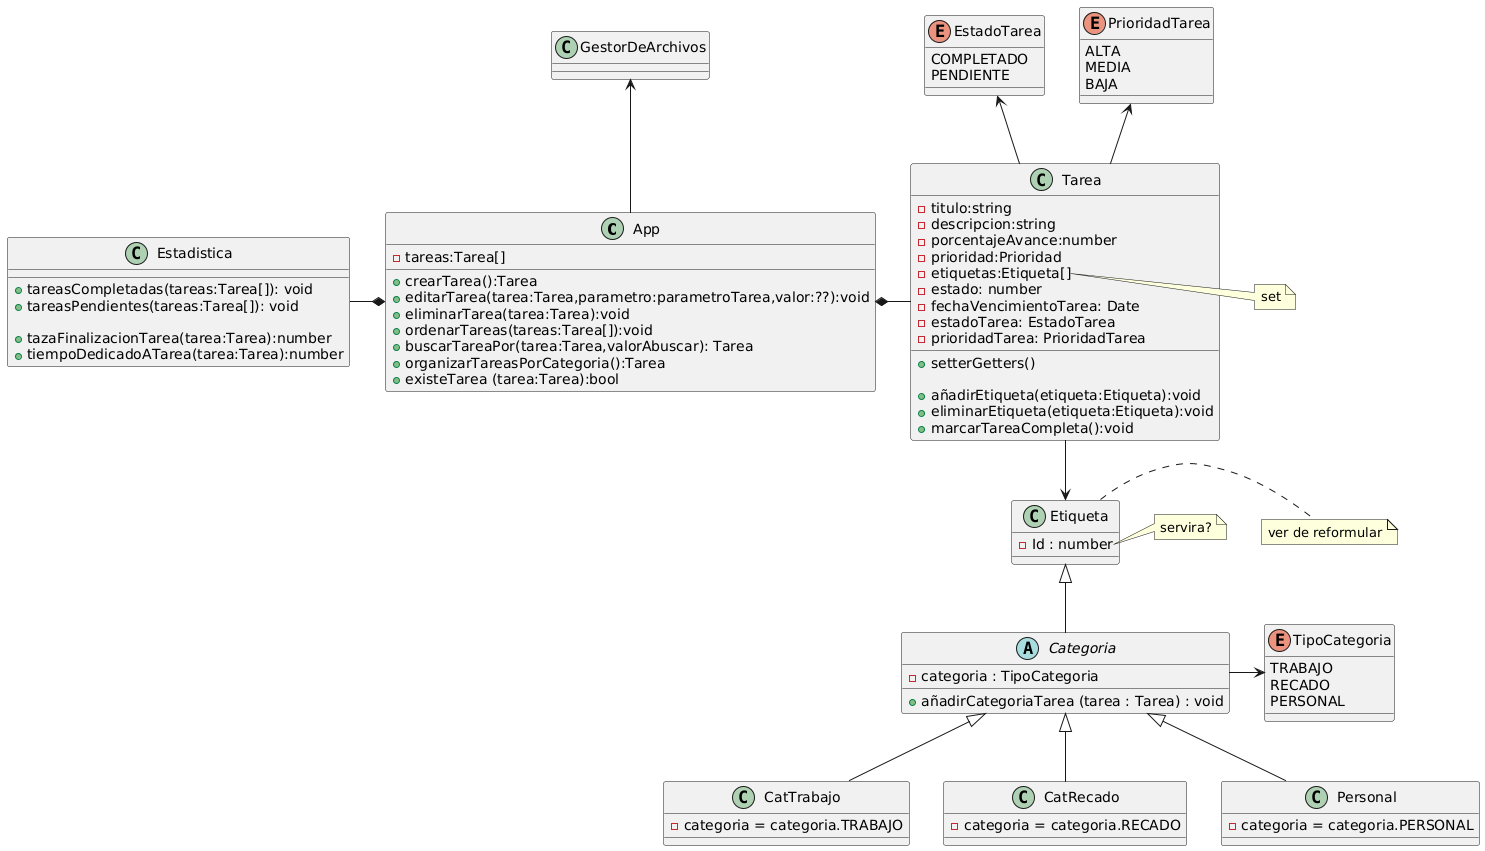
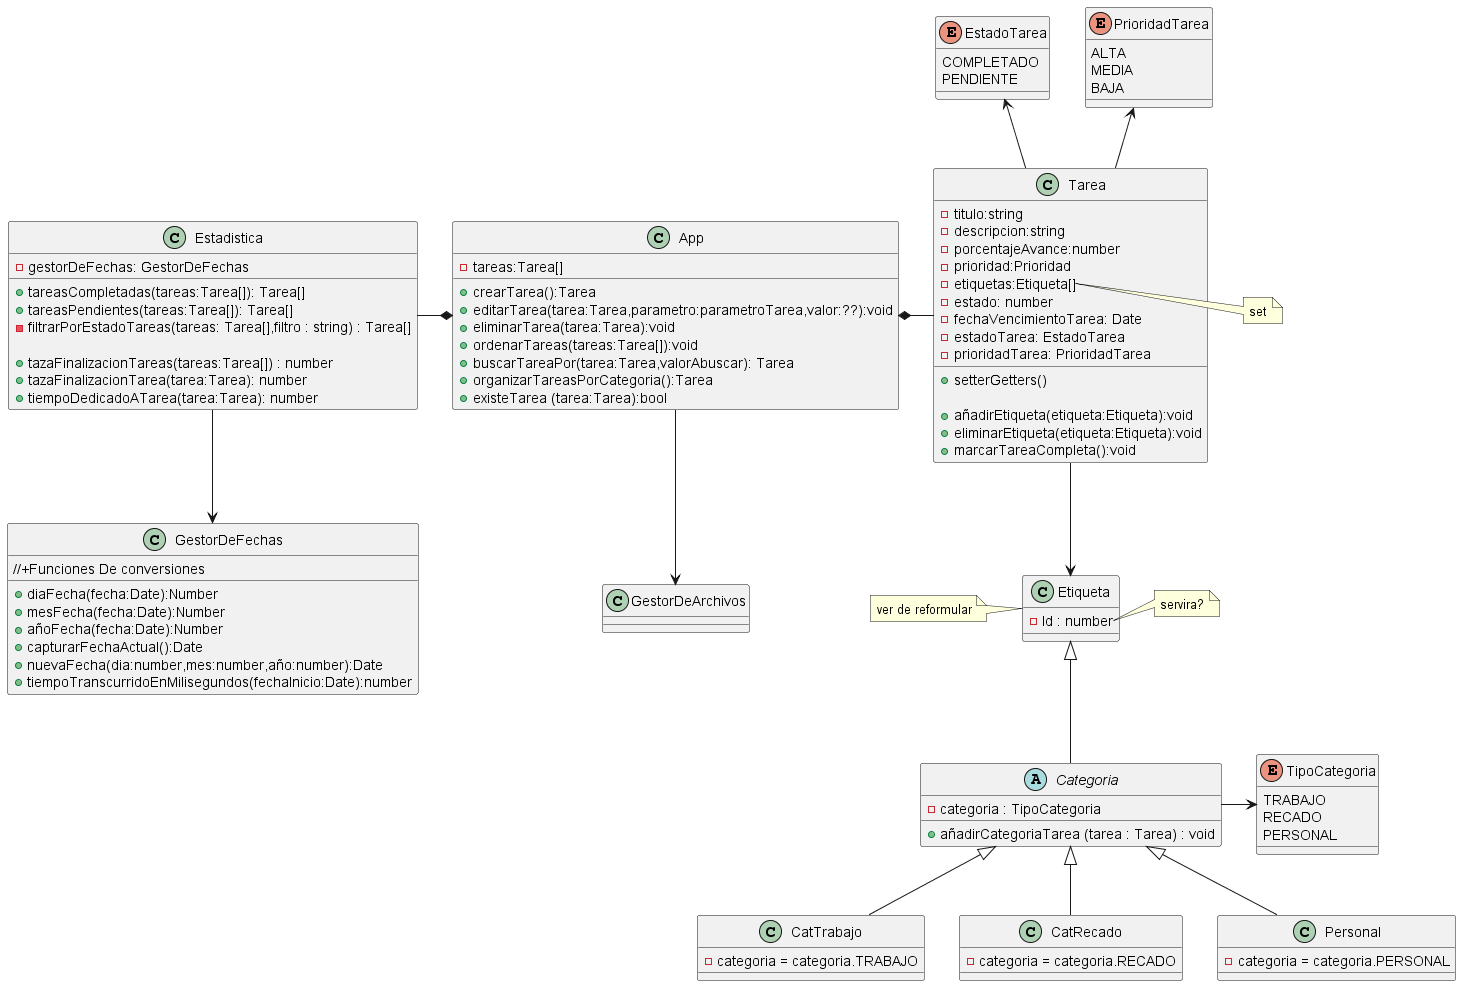
Actualizacion Diagrama de clase
Actualizacion Diagrama de clase por clase nueva GestorDeFechas

diff --git a/src/Estadistica/Estadistica.ts b/src/Estadistica/Estadistica.ts
@@ -1,20 +1,31 @@
 
-import GestorFecha from "../GestorFecha/GestorFecha";
+import GestorDeFechas from "../GestorDeFechas/GestorDeFechas";
 import { EstadoTarea } from "../Tarea/Enumeradores/estadoTarea";
 import Tarea from "../Tarea/Tarea";
 
 export default class Estadistica{
 
-    private gestorFecha = new GestorFecha();
+    private gestorDeFecha : GestorDeFechas = new GestorDeFechas();
 
     public tareasCompletadas(tareas : Tarea[]) :Tarea[] {
 
-        return this.filtrarEstadoTareasPor(tareas,EstadoTarea.COMPLETADO);
+        return this.filtrarPorEstadoTareas(tareas,EstadoTarea.COMPLETADO);
     }
 
     public TareasPendientes(tareas : Tarea[]) :Tarea[]{
 
-        return this.filtrarEstadoTareasPor(tareas,EstadoTarea.PENDIENTE);
+        return this.filtrarPorEstadoTareas(tareas,EstadoTarea.PENDIENTE);
+    }
+
+    private filtrarPorEstadoTareas (tareas: Tarea[],filtro : string) : Tarea[] { //revisitar
+        
+        let tareasFiltradas : Tarea[] = 
+        
+        tareas.filter((tarea)=> {
+            tarea.getEstado() === filtro;
+        });
+
+        return tareasFiltradas;
     }
     
     public tazaFinalizacionTareas(tareas : Tarea[]) : number{   // % Cant tareas finalizadas
@@ -39,19 +50,9 @@ export default class Estadistica{
 
         let fechaInicio : Date = tarea.getFechaInicio();
 
-        let tiempoDedicado : number = this.gestorFecha.tiempoTranscurridoEnMilisegundos(fechaInicio);
+        let tiempoDedicado : number = this.gestorDeFecha.tiempoTranscurridoEnMilisegundos(fechaInicio);
 
         return tiempoDedicado;
     }
 
-    private filtrarEstadoTareasPor (tareas: Tarea[],filtro : string){ //revisitar
-        
-        let tareasFiltradas : Tarea[] = 
-        
-        tareas.filter((tarea)=> {
-            tarea.getEstado() === filtro;
-        });
-
-        return tareasFiltradas;
-    }
 }

diff --git a/src/GestorDeFechas/GestorDeFechas.ts b/src/GestorDeFechas/GestorDeFechas.ts
@@ -1,7 +1,7 @@
 
 //esta clase nos permitira manipular con mayor facilidad los objetos nativos de tipo Date
 
-export default class GestorFecha {
+export default class GestorDeFechas {
 
     public diaFecha(fecha:Date):Number {
         return fecha.getDate();
